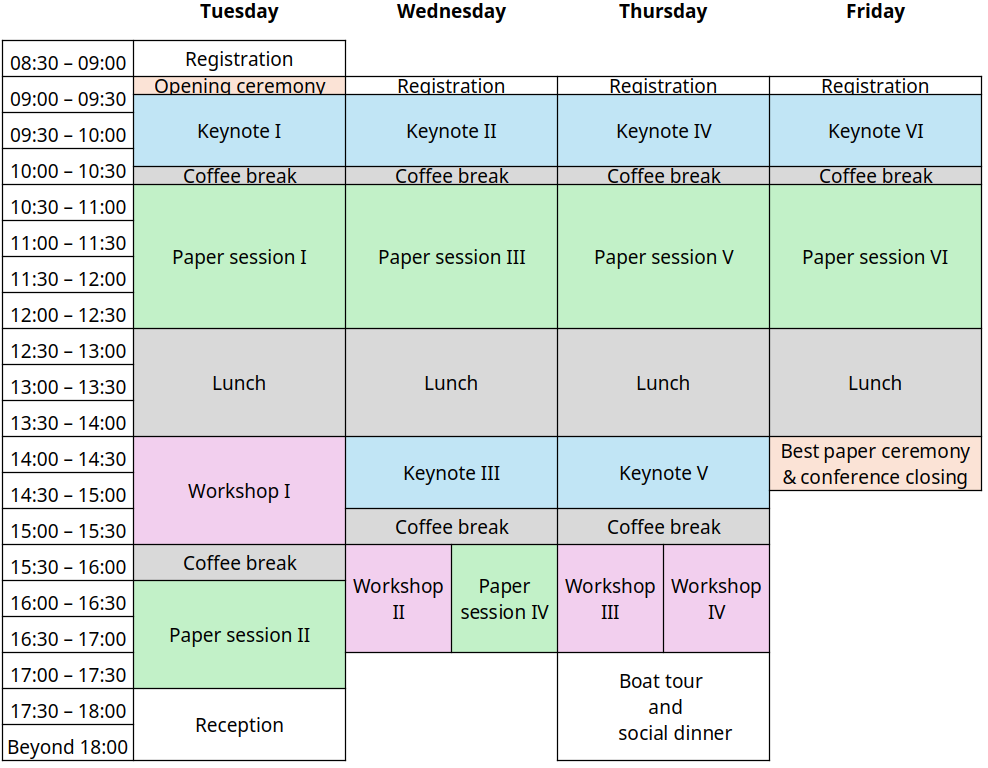
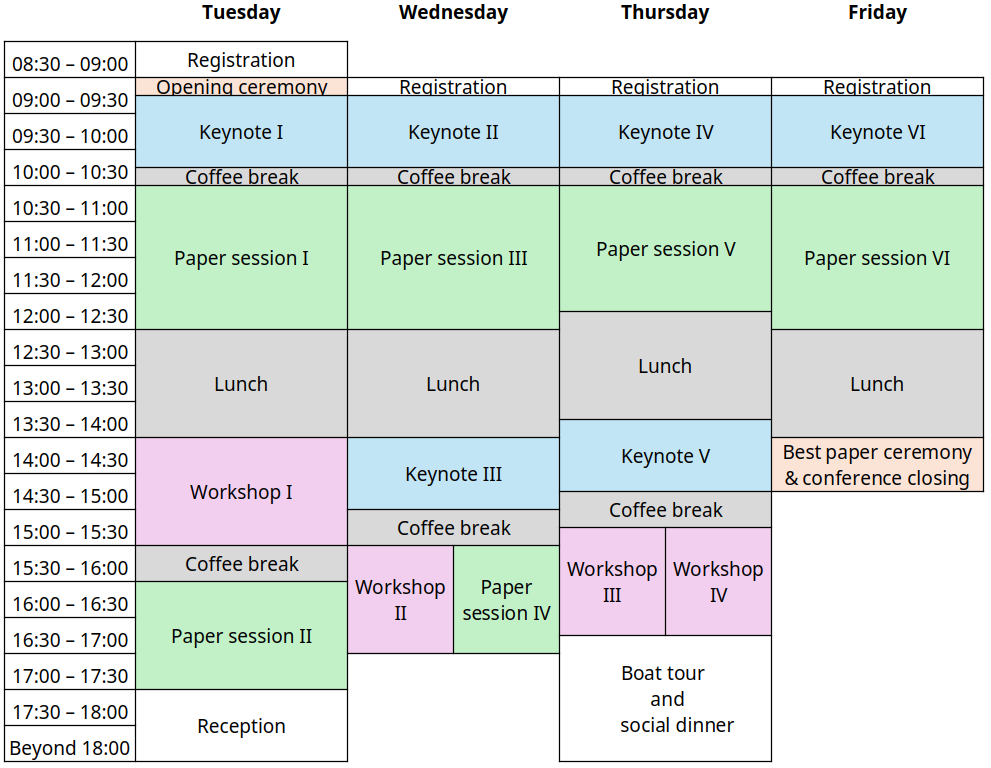
shifted programme for thursday by 15min

diff --git a/_pages/programme.md b/_pages/programme.md
@@ -88,22 +88,21 @@ Registered participants may access the [submitted versions of the papers to be p
 
 **10:15 -- 10:30**: Coffee break
 
-**10:30 -- 12:30**: Paper session V
+**10:30 -- 12:15**: Paper session V
 <div style="margin-top:-20px; font-size: 70%;">Session Chair: Stefan Schiffner</div>
 * *Maria Skwarcan*: Pay or Consent Under the DMA: Genuine Progress or Illusory Victory Against Data Commodification?
 * *Lelia Hanslik, Stefan Ullrich and Bettina Berendt*: From Advertised Features to Third Party Privacy Impact Assessments
 * *Nikolas Wintering and Nils Aschenbruck*: Towards a Privacy-aware Role-based Network Intrusion Detection System
 
-**12:30 -- 14:00**: Lunch break
+**12:15 -- 13:45**: Lunch break
 
-**14:00 -- 15:00**: Keynote V
+**13:45 -- 14:45**: Keynote V
 <div style="margin-top:-20px; font-size: 70%;">Session Chair: Lejla Islami</div>
 *[Paul Stankovski Wagner](../keynotes#paul)*: Digitalization & PAPR: Publicly Auditable Privacy Revocation for Anonymous Credentials
 
+**14:45 -- 15:15**: Coffee break
 
-**15:00 -- 15:30**: Coffee break
-
-**15:30 -- 17:00**: Workshops
+**15:15 -- 16:45**: Workshops
 * Workshop III: *Michael Friedewald, Marc Steen and Greta Runge*: Citizen Engagement in Cybersecurity Research
 * Workshop IV: *Kai Rannenberg et al.*: The CyberSecPro approach to training in Cybersecurity and its relation to Privacy and Identity Management
 
